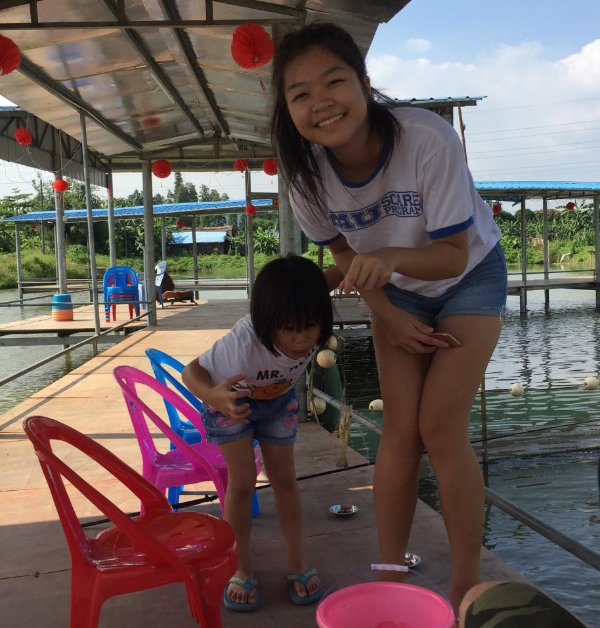
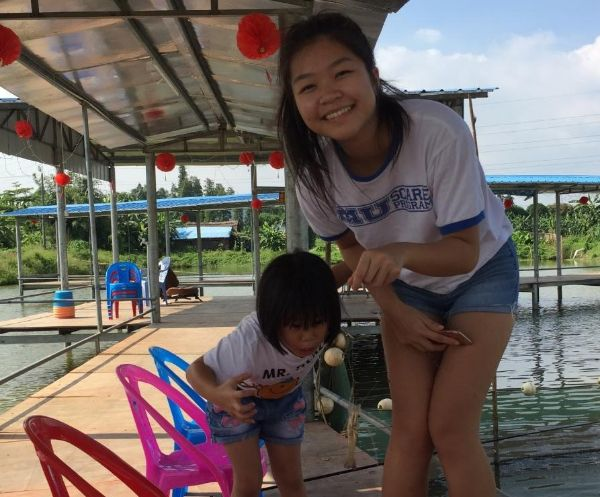
Decreased about picture size and added border radius

diff --git a/about.html b/about.html
@@ -75,9 +75,9 @@
 
         <!-- About Picture -->
         <div>
-          <picture>
+          <picture >
             <source srcset="img\about\self_portrait@1x.jpg" media="max-width:767px">
-            <img src="img/about/self_portrait@2x.jpg" alt="Photo of Tina Cai">
+            <img src="img/about/self_portrait@2x.jpg"  id="about-picture" alt="Photo of Tina Cai">
           </picture>
         </div>
 

diff --git a/css/style.css b/css/style.css
@@ -277,6 +277,10 @@ section {
   margin-bottom: 3em;
 }
 
+#about-picture {
+  border-radius: 10px;
+}
+
 #skills-container {
   margin: 3em 0;
 }
